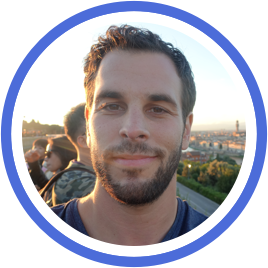
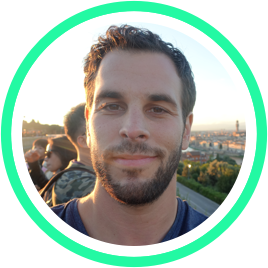
Updated design

Changed region(s): [[0.0, 0.0, 1.0, 1.0]]

diff --git a/index.html b/index.html
@@ -16,9 +16,13 @@
 		    font-family: 'Proxima Nova', Georgia, sans-serif;
 			}
 
-    	#avatar {
- 				padding-top: 15%;
-    	}
+			#persona {
+				background-color: #30457F;
+				position: relative;
+				padding-top: 140px;
+				padding-bottom: 50px;
+				height: 550px;
+			}
 
     	#work {
     		padding-top:50px;
@@ -36,20 +40,20 @@
 
     	h1 {
     		font-size: 24px;
-    		color: #4C6CD9;
+    		color: #23F9A3;
     		font-weight: 600;
     	}
 
     	h2 {
     		font-size: 20px;
-    		color: rgba(77,77,77);
+    		color: #FFFFFF;
     		font-weight: 400;
     		margin-bottom: 0px;
     	}
 
     	h3 {
     		font-size: 18px;
-     		color: rgba(77,77,77);
+     		color: #FFFFFF;
     		font-weight: 400;
     		margin-top: 10px;
     	}
@@ -86,9 +90,9 @@
   </head>
   <body>
 
-		<div class="container text-center">
-			
-			<div id="avatar" class="row">
+  <div id="persona" class="container-fluid">
+  	<div class="container text-center">
+  		<div id="avatar" class="row">
 				<div class="col-md-12">
 					<img src="images/photo_of_todd_goldberg.png" width="128px" class="img-responsive" style="float:clear; display: inline-block;">
 				</div>
@@ -99,6 +103,12 @@
 				<h2>Tech entrepreneur. YC alum. Angel investor.</h2>
 				<h3>Part product designer. Part marketer. And a bit of everything else.</h3>
 			</div>
+		</div>
+  </div>
+
+
+
+		<div class="container text-center">
 
 
 			<div id="work" class="row">
